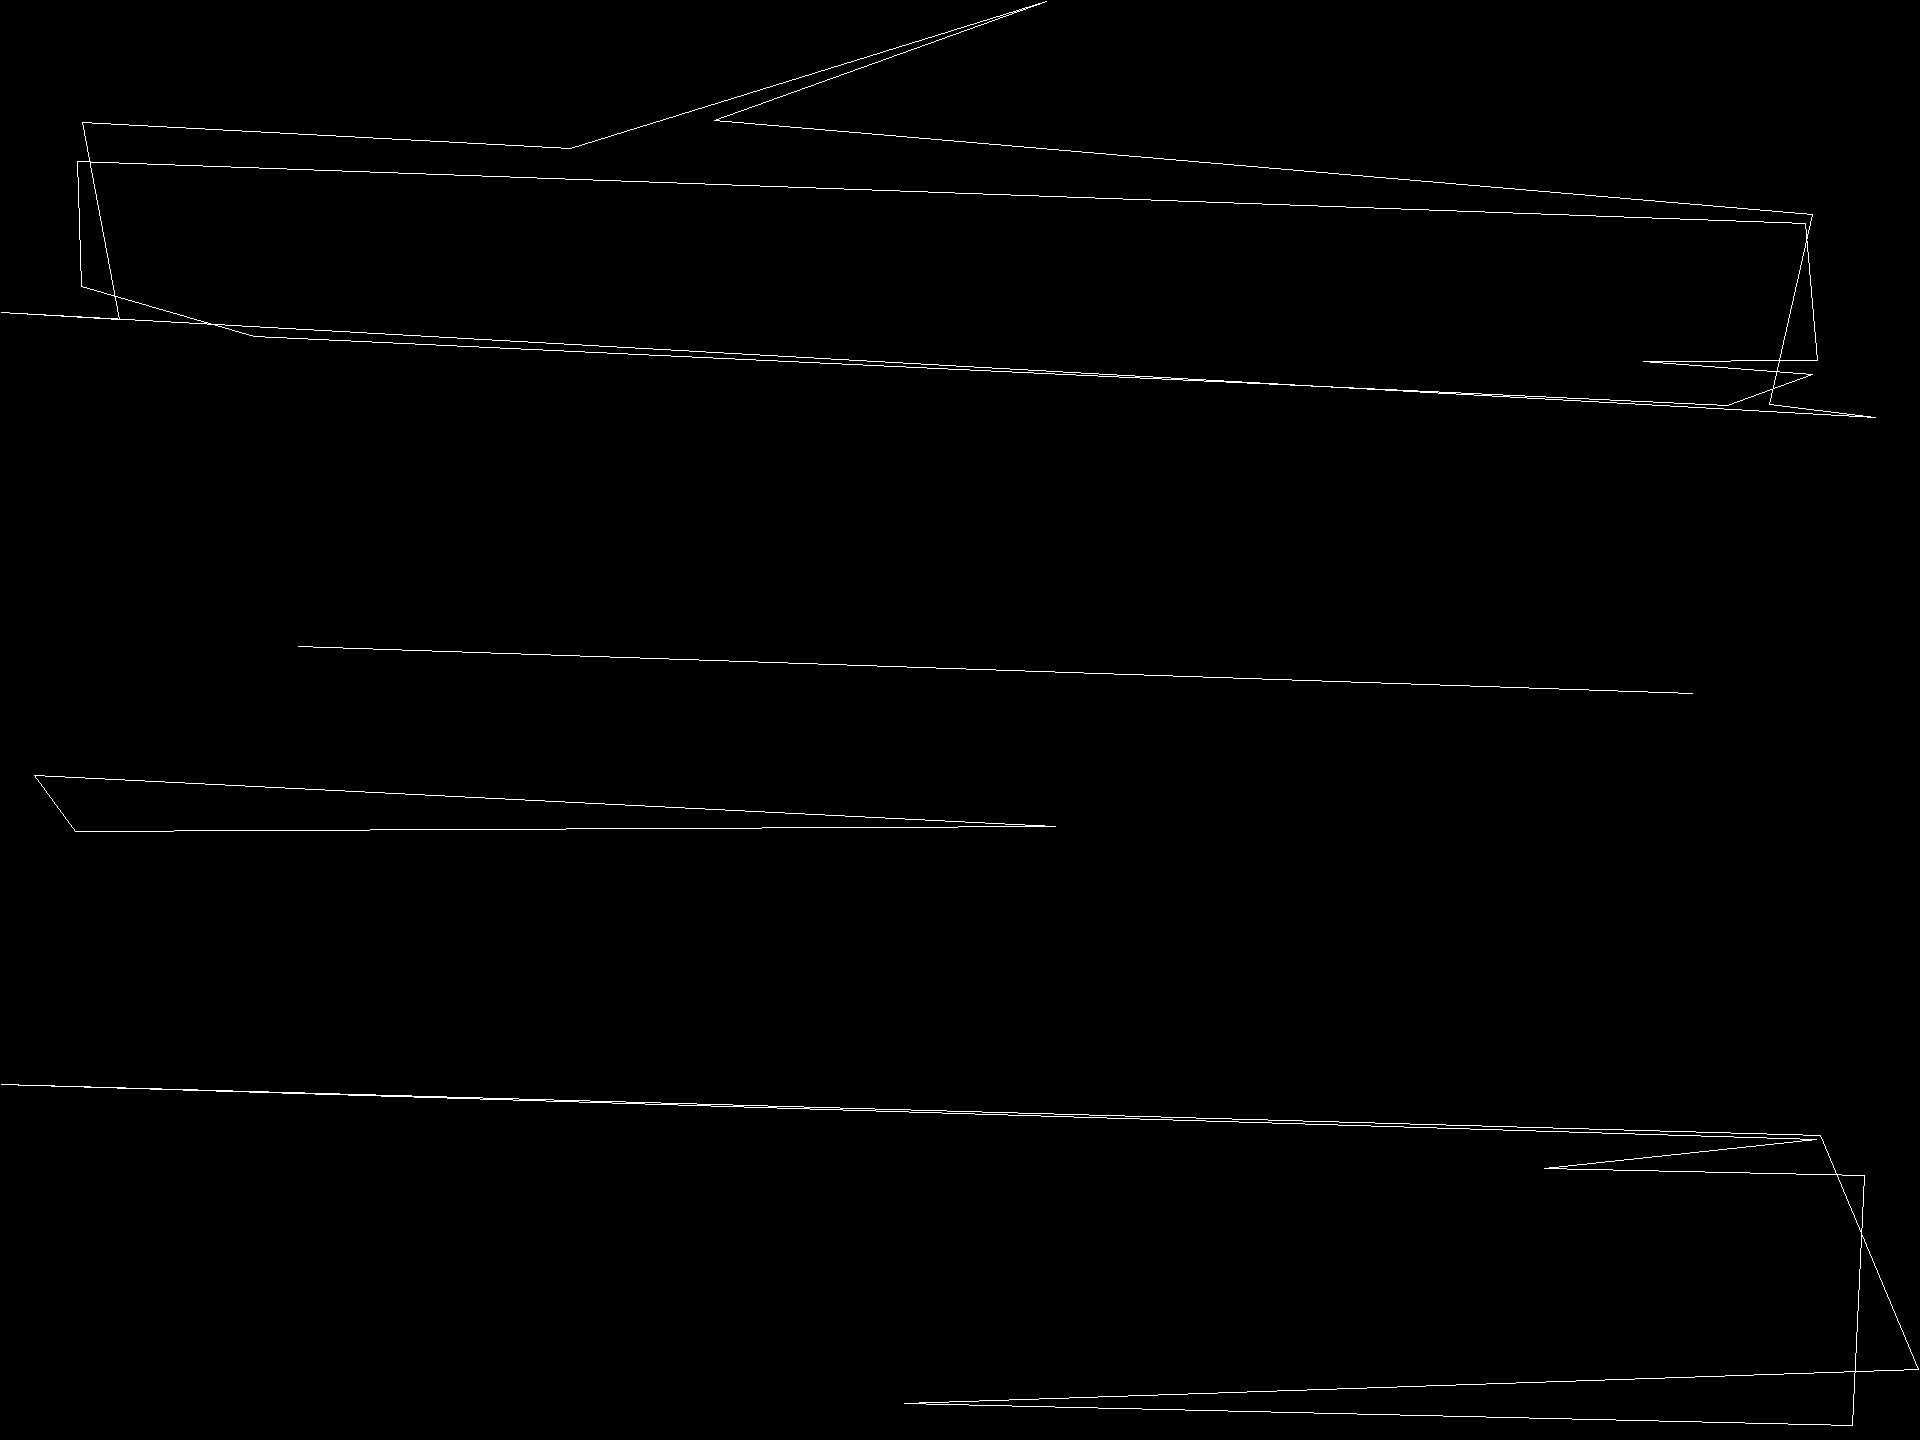
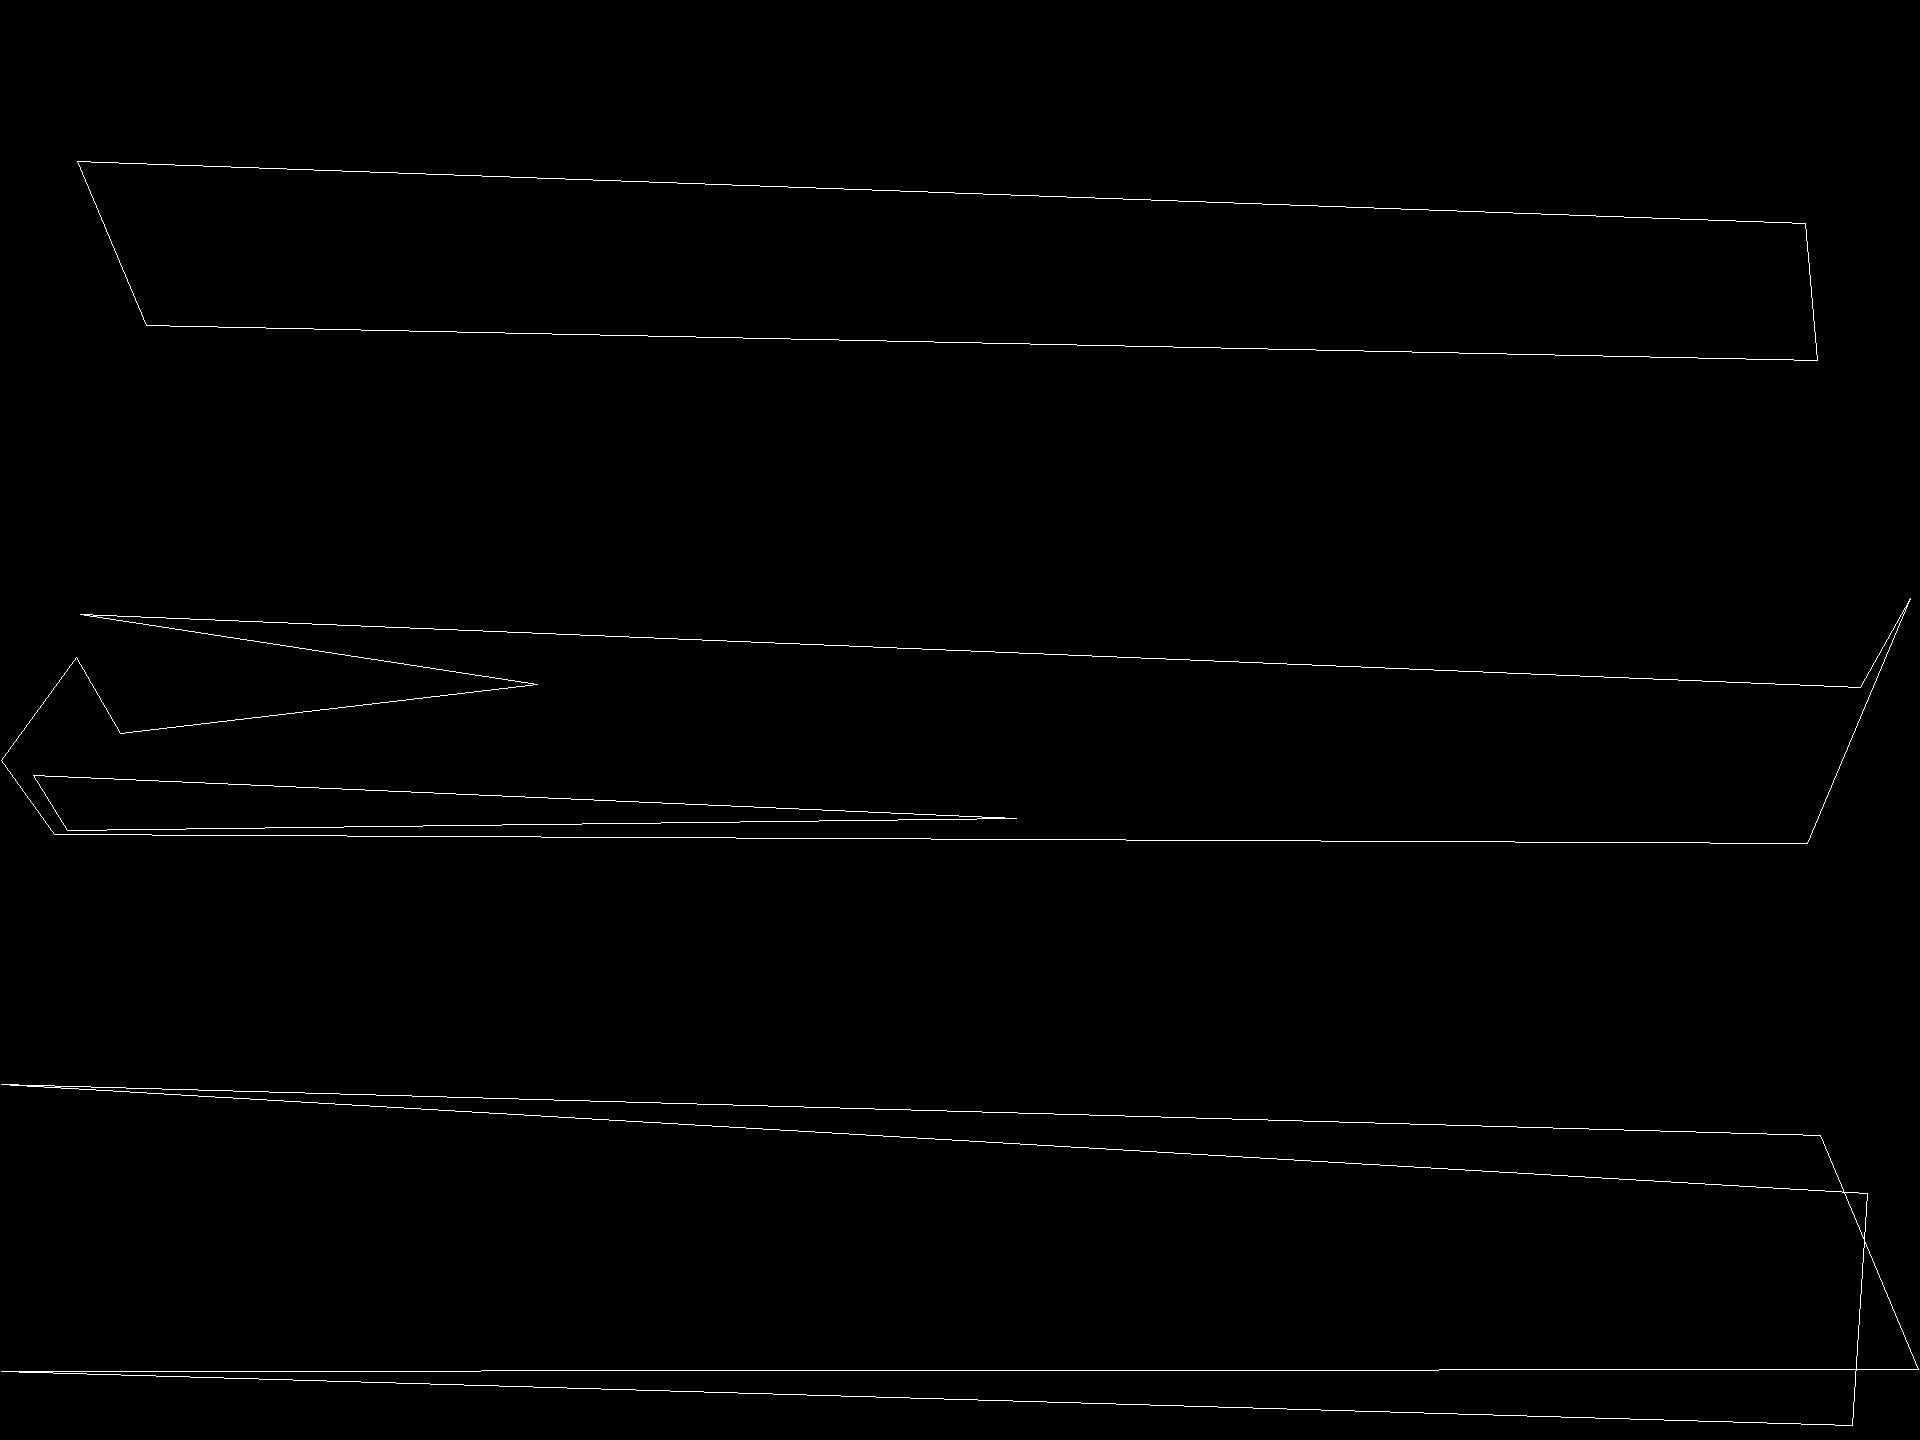
WIP

Changed region(s): [[0.5, 0.5625, 0.5312, 0.5938], [0.4375, 0.5625, 0.4688, 0.5938]]

diff --git a/t.js b/t.js
@@ -2,35 +2,35 @@ const tesseract = require('node-tesseract');
 const cv = require('opencv');
 const fs = require('fs')
 
-const tesseractOptions = {
-	l: 'eng',
-	psm: 4
-};
+// const tesseractOptions = {
+// 	l: 'eng',
+// 	psm: 4
+// };
 
-tesseract.process(__dirname + './noam.png', tesseractOptions, function(err, text) {
-	if(err) {
-		console.error(err);
-	} else {
-		var logger = fs.createWriteStream(text+'.txt', {
-  			flags: 'a'
-		})
-		console.log(text);
-		logger.write(text)
-		logger.end()
-	}
-});
+// tesseract.process(__dirname + './noam.png', tesseractOptions, function(err, text) {
+// 	if(err) {
+// 		console.error(err);
+// 	} else {
+// 		var logger = fs.createWriteStream(text+'.txt', {
+//   			flags: 'a'
+// 		})
+// 		console.log(text);
+// 		logger.write(text)
+// 		logger.end()
+// 	}
+// });
 
 var lowThresh  = 0;
-var highThresh = 110;
+var highThresh = 100;
 var nIters     = 2;
-var minArea    = 10000;
+var minArea    = 20000;
 
 var BLUE  = [255, 0, 0];
 var RED   = [0, 0, 255];
 var GREEN = [0, 255, 0];
 var WHITE = [255, 255, 255];
 
-var copytoxformats= function(im){
+var convertToTestFormats= function(im){
   img_hsv = im.copy();
   img_gray = im.copy();
   img_hsv.convertHSVscale();
@@ -46,13 +46,14 @@ cv.readImage('./regular.jpg', function(err, im) {
 
   width = im.width()
   height = im.height()
-
+  console.log(width)
+  console.log(height)
   if (width < 1 || height < 1) throw new Error('Image has no size (probably no image or wrong path)');
 
-  copytoxformats(im);
+  convertToTestFormats(im);
 
   var out = new cv.Matrix(height, width);
-  im.convertGrayscale();
+  // im.convertGrayscale();
   im_canny = im.copy();
   im_canny.canny(lowThresh, highThresh);
   im_canny.dilate(nIters);
@@ -60,19 +61,19 @@ cv.readImage('./regular.jpg', function(err, im) {
   contours = im_canny.findContours();
 
   var size = contours.size();
-  console.log(size);
-  // Count of corners(verticies) of contour `index`
-  // var index = contours.cornerCount(index);
-  console.log('cool')
-  // Access vertex data of contours
-  for(var c = 0; c < contours.size(); ++c) {
-    console.log("Contour " + c);
-    for(var i = 0; i < contours.cornerCount(c); ++i) {
-      var point = contours.point(c, i);
-      console.log("(" + point.x + "," + point.y + ")");
-    }
-  }
 
+  // Access vertex data of contours
+  // for(var c = 0; c < contours.size(); ++c) {
+  //   // console.log("Contour " + c);
+  //   for(var i = 0; i < contours.cornerCount(c); ++i) {
+  //     var point = contours.point(c, i);
+  //     // console.log("(" + point.x + "," + point.y + ")");
+  //   }
+  // }
+
+  let largestArea = 500;
+  let largestAreaIndex;
+  var arr = []
   // try different approach with controur data (prefered)
   for (i = 0; i < contours.size(); i++) {
 
@@ -81,16 +82,50 @@ cv.readImage('./regular.jpg', function(err, im) {
 
     var arcLength = contours.arcLength(i, true);
     contours.approxPolyDP(i, 0.01 * arcLength, true);
-
     // console.log(contours.cornerCount(i));
     if(contours.cornerCount(i) < 10) {
 
-    console.log(contours.minAreaRect(i))
-        // img_crop = im.crop(50,50,250,250);
-        // img_crop.save('./crop.png');
-        // im.Convert()
-        im.drawContour(contours, i, RED);
-        out.drawContour(contours, i, WHITE);
+    var points = [
+      contours.point(i, 0),
+      contours.point(i, 1)
+    ]
+
+    out.line([points[0].x,points[0].y], [points[1].x, points[1].y], RED);
+
+
+    let rect = contours.minAreaRect(i);
+
+    for (let i = 0; i < 4; i++) {
+      im.line([rect.points[i].x, rect.points[i].y], [rect.points[(i+1)%4].x, rect.points[(i+1)%4].y], GREEN, 3);
+      // console.log(i + ' -> ' + rect.points[i].x, rect.points[i].y, rect.points[(i+1)%4].x, rect.points[(i+1)%4].y)
+    }
+
+    var p0x = rect.points[0].x > 0 ? rect.points[0].x : 0
+    var p0y = rect.points[0].y > 0 ? rect.points[0].y : 0
+    var p2x = rect.points[1].x > 0 ? rect.points[1].x : 0
+    var p2y = rect.points[1].y > 0 ? rect.points[1].y : 0
+
+    // var newZero = lasty || 0
+    // console.log('newzero is: ' + newZero)
+    // console.log(['p0x: ' + p0x,'p0y: ' +  p0y,'p2x: ' +  p2x,'p2y: ' +  p2y])
+    // console.log([ 0, height-p2y ,width, height-p0y])
+
+    // arr.push(height-p0y)
+    // var total=0;
+    // for(var a in arr) { total += arr[a]; }
+    // console.log(total)
+    // console.log(arr)
+
+    img_crop = im.crop(0, height-p2y ,width, height-p0y)
+    img_crop.save('./'+i+'crop.png');
+
+
+
+    // var lasty = height-p0y
+    // console.log(lasty)
+    // img_crop.save('./crop'+i+'.png');
+    // im.drawContour(contours, i, RED);
+    out.drawContour(contours, i, WHITE);
     }
   }
 
